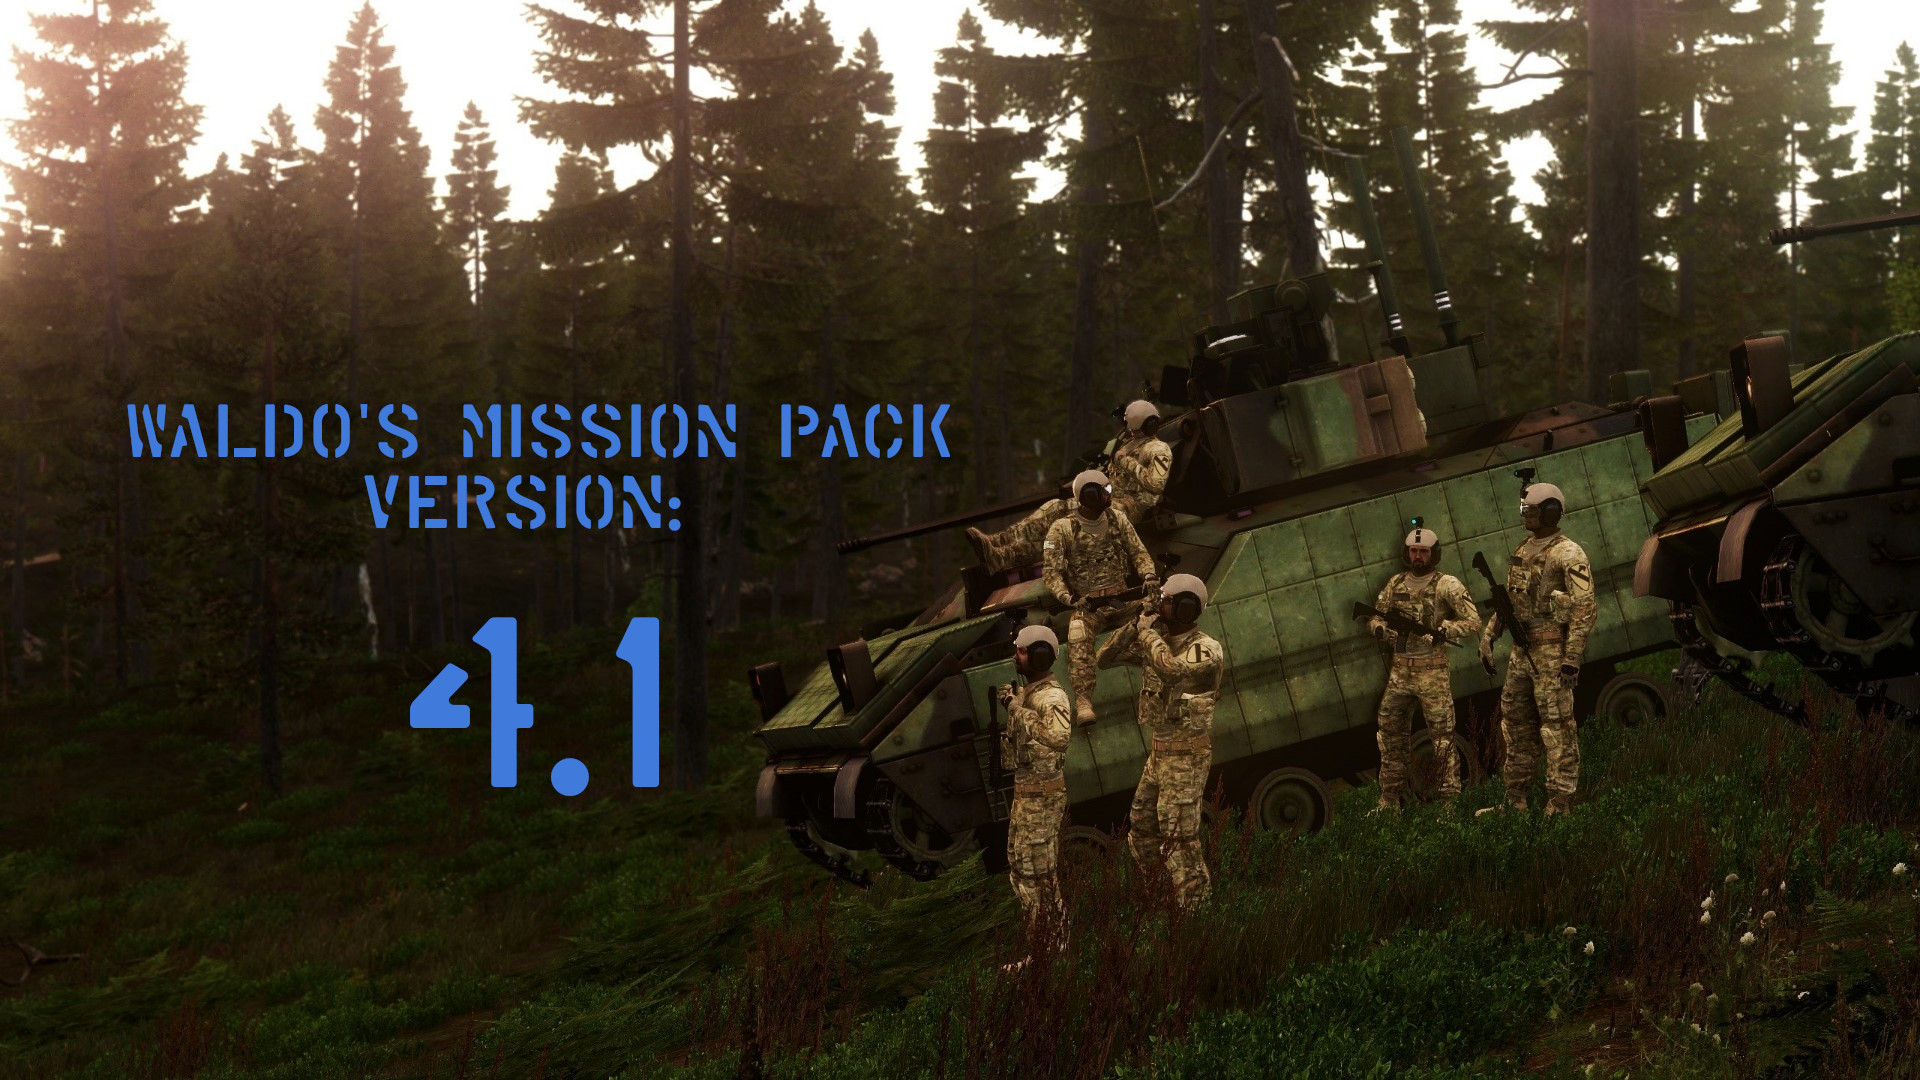
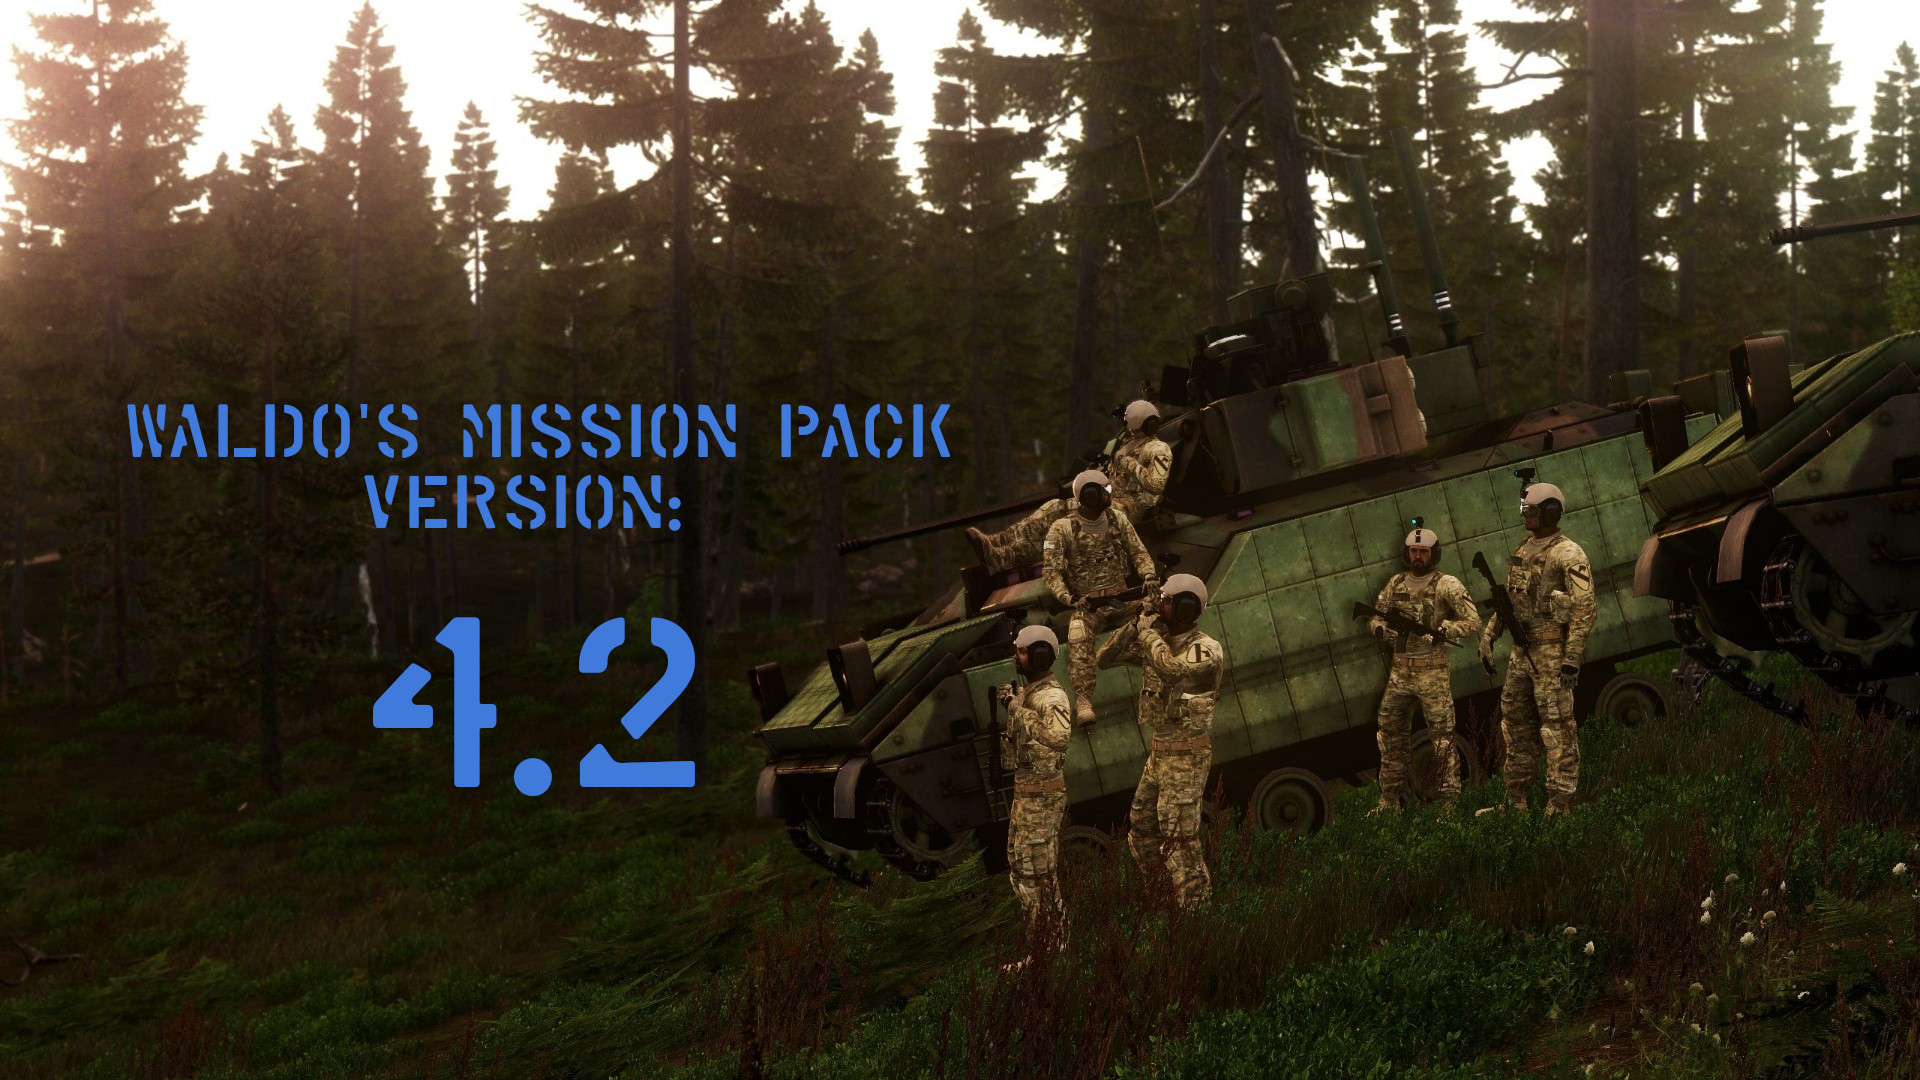
V4.2 Release Candidate Push
- Updated Cover Image
- Updated Readme for ease of learning!

Changed region(s): [[0.1875, 0.55, 0.375, 0.7333]]

diff --git a/README.md b/README.md
@@ -8,11 +8,21 @@ to utilise critical systems of arma 3.
 
 To this end, the majority of QOL & critical scripts can be utilised via the init.sqf, initServer.sqf, initPlayerlocal.sqf & description.ext files.
 
-Unless wanting to use specific features, or learn about creating starter crates, autolimited arsenals or Mobile Headquarters systems, the average mission maker shouldnt need to venture much further past those files.
+Functions are defined in WaldoFunctions.sqf in MissionScripts Folder.
+
+The Function is always: Waldo_fnc_X
+
+Where X is replaced by the class furthest to the right of the screen in the file.
+
+
+Each function specifically referances a file, so that you may locate and read up on how the function works, should you need to call it yourself.
+
+
+Unless you are wanting to use specific features such as: creating starter crates, autolimited arsenals or Mobile Headquarters systems amoung other scripts, you need not venture further than the root mission directory.
 
 For those seeking knowledge or greater control, each file is fully documented on its usage, its parameters and its purpose.
 
-# Required Steps To Utilse Scripts
+# Required Steps To Enable Scripts
 1. Copy the contents of the WMP_VERSION folder into your user directory (This will provide you with an exemplar mission on Altis - utilising RHS.
 2. Copy everything bar the mission.sqm from that folder into your mission
 3. Ensure that the mission.sqm is unbinarized (attributes --> General --> under Misc --> uncheck the "binarize the scenario file" box)
